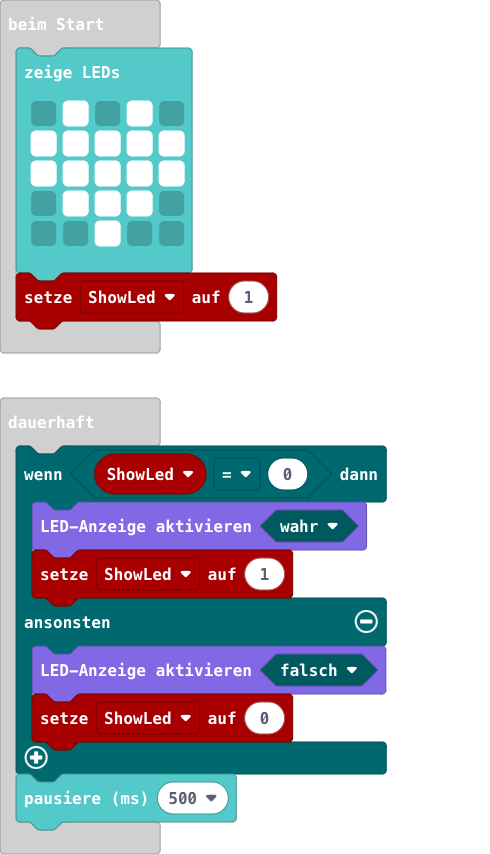
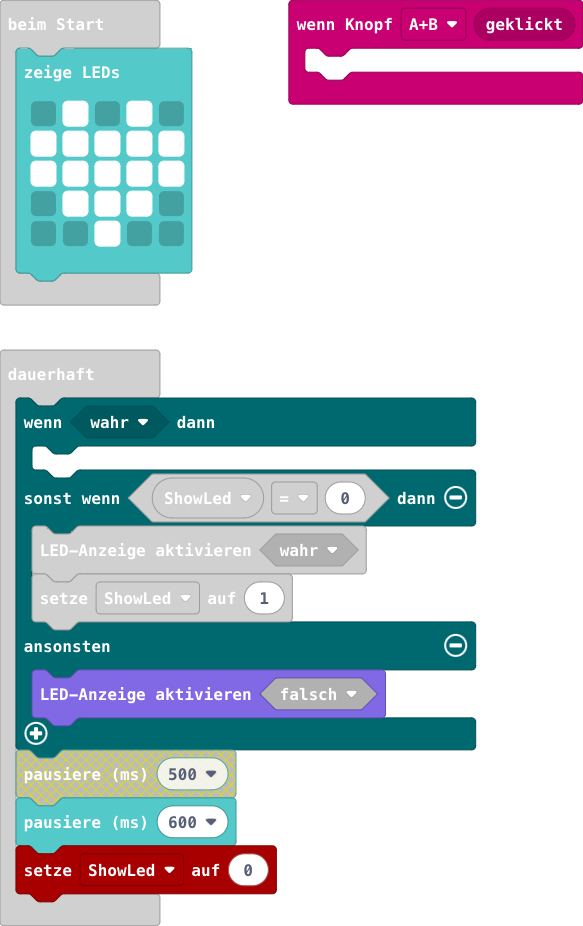
Aktualisiere main.blocks, main.ts

diff --git a/main.ts b/main.ts
@@ -1,3 +1,7 @@
+input.onButtonEvent(Button.AB, input.buttonEventClick(), function () {
+	
+})
+let ShowLed = 0
 basic.showLeds(`
     . # . # .
     # # # # #
@@ -5,14 +9,15 @@ basic.showLeds(`
     . # # # .
     . . # . .
     `)
-let ShowLed = 1
 basic.forever(function () {
-    if (ShowLed == 0) {
+    if (true) {
+    	
+    } else if (ShowLed == 0) {
         led.enable(true)
         ShowLed = 1
     } else {
         led.enable(false)
-        ShowLed = 0
     }
-    basic.pause(500)
+    basic.pause(600)
+    ShowLed = 0
 })
